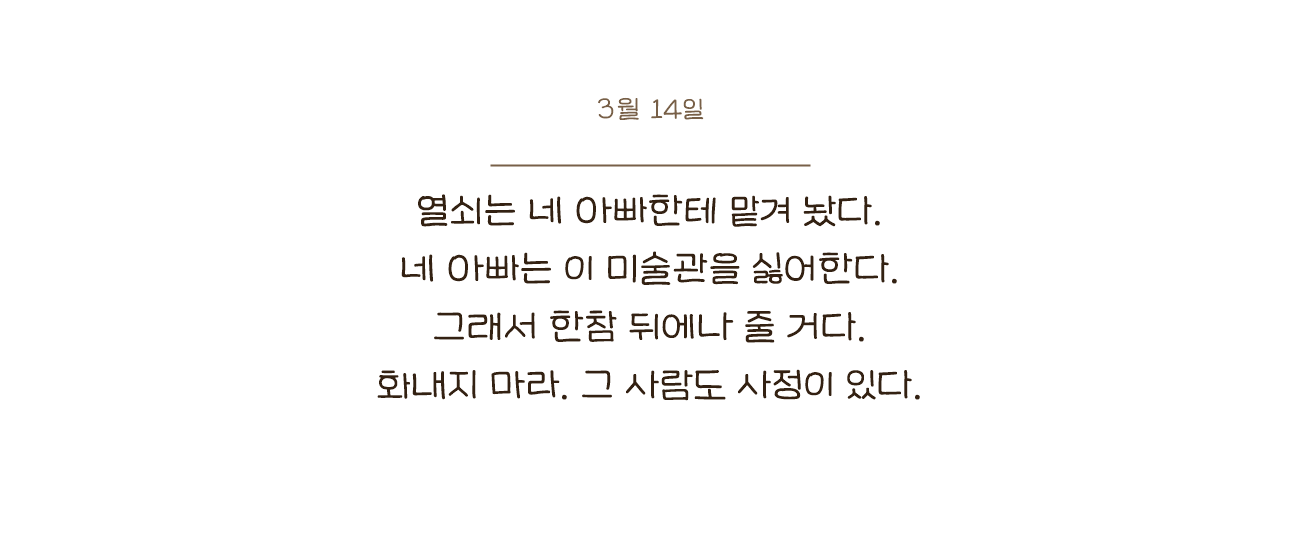
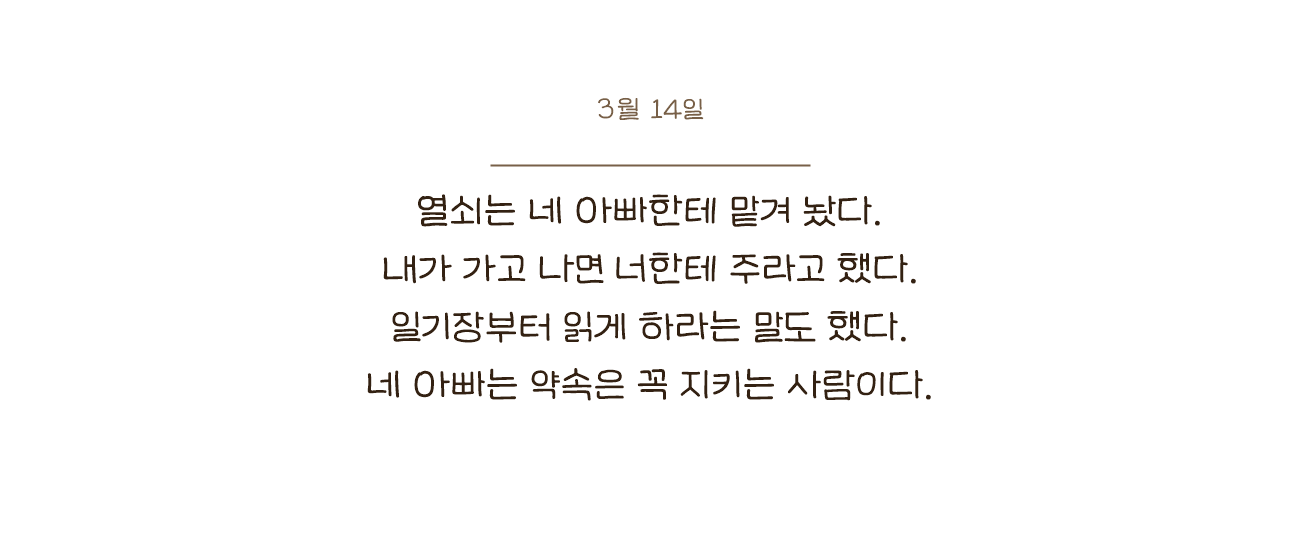
아빠가 미술관을 싫어한다는 설정 삭제: 열쇠는 할아버지의 부탁으로 전달

Changed region(s): [[0.2769, 0.6375, 0.7077, 0.7286], [0.2769, 0.5464, 0.7077, 0.6375], [0.2769, 0.4554, 0.7077, 0.5161]]

diff --git a/docs/claude/SESSION_HANDOFF.md b/docs/claude/SESSION_HANDOFF.md
@@ -780,3 +780,4 @@ Phase 1에서 한 일 (2026-10-29):
 - 확인(미술관 실행): 기억을 지우고 들어가니 편지가 먼저 열리고 그동안 표시가 안 보임 → 닫으면 화살표 9개 + 고리 + 위쪽 안내 글이 나타나 책상 쪽(서쪽)으로 이어짐(화면 캡처) → 고리 자리에 서면 "[E] 일기장 읽기"가 뜸 → 일기장을 열면 표시 전부 사라짐. 테스트 뒤 기억을 다시 지워 사용자의 다음 첫 입장에 편지와 안내가 뜬다. 못 본 것: 화살표가 가구에 겹쳐 보이는 경우(길이 직선이라 가구를 가로지를 수 있음), 다시하기 뒤 재표시.
 - (2026-11-11 사용자 요청 "스토리를 더 채우고 부모님 편지에는 일기장으로 가 보라고만 써 줘") ① **부모님의 편지를 2쪽으로 줄였다**(`0_OpeningPages.txt`): "사랑하는 우리 아이에게, 할아버지가 지키시던 미술관의 열쇠를 건넨다." → "먼저 책상 위의 일기장으로 가 보렴. 바닥의 표시를 따라가면 된단다. 엄마, 아빠가." ② **할아버지 일기장을 4쪽 → 10쪽으로 채웠다**(`Diary_01~10.png`, 이서윤체, 쪽마다 시점 글자 + 본문 3줄): 첫 장(손님은 셋뿐) → 그해 봄(색이 가장 환하던 때) → 여러 해 뒤(색이 빠져나감, 미술관이 색을 숨기려는 걸까) → 어느 밤(거울 너머 숲) → 첫 번째 곳(숲: 빨강·주황·노랑) → 두 번째 곳(성 마을: 초록·파랑·보라) → 마지막 곳(사막: 분홍·하양·검정) → 그림자(색을 노리는 그림자, 잡으면 삼킨 색이 터져 나옴) → 열쇠(아버지에게 맡겨 둠, 네가 스스로 문을 열기를 바랐다) → 마지막 장(액자를 다시 채워 다오). `DiaryPopup`의 Pages를 10장으로 연결(씬 저장), `Phase76`은 있는 만큼 읽는다. ③ **결말을 9쪽으로**: 거울 너머가 조용해지고 그림자들이 삼킨 색이 돌아오는 쪽을 추가, 열쇠 쪽을 "부모님이 열쇠와 편지를 건네주셨다. 편지에는 일기장으로 가 보라는 말뿐이었다"로 맞춤. 확인(미술관 실행): 편지 1·2쪽, 일기장 "8 / 10"·결말 "5 / 9" 화면 확인. 테스트 뒤 '봤다' 기억을 지워 다음 첫 입장에 편지와 길 안내가 뜬다. 못 본 것: 일기장 9·10쪽 외 나머지 쪽의 줄 길이(한 줄이 길면 가로가 넘칠 수 있어 3·6쪽 등은 눈으로 안 봄).
 - (2026-11-11 사용자 지적 "스토리가 좀 별로야" → 이유: 너무 평범하고 뻔하고, 글이 AI 같다 → 방향: "AI티 더 안 나게") **이야기 글을 처음부터 다시 썼다.** AI 티가 났던 이유(쪽마다 같은 정돈된 3줄, 추상적인 감정 요약, 구체적인 물건·웃음 없음)를 없애려고 **구체적인 사물 + 투덜대는 말투 + 약간의 웃음 + 줄 수가 들쭉날쭉한 일기** 로 바꿨다. 뼈대(거울, 숨겨진 색, 열쇠, 일기장, 액자 9개, 숲·성 마을·사막, 그림자)는 그대로. ① 일기장 10쪽(`Diary_01~10.png`)을 **날짜가 붙은 진짜 일기**로: 4월 3일 손님 세 명(우유 아저씨, 맨날 오는 할머니, 화장실 빌리러 온 옆집 꼬마) → 비 오는 날 9번 액자 앞에 서 있는 할머니 → 9번 액자가 허옇다 → 난로 값 아끼려고 석 달 문을 닫았더니 액자가 전부 허옇다("삐진 모양") → 거울이 물처럼 출렁, 물감 냄새, 무릎 때문에 안 들어감 → 가을 숲 색을 3번 액자에 바르니 그 액자만 돌아옴 → 성 마을·사막 → 거울 안 시커먼 것들, 빗자루로 쫓음("너는 더 좋은 걸 들고 가라") → 열쇠는 아빠에게(아빠는 미술관을 싫어함) → 액자는 아홉 개, "나도 못 그린다", 손님은 셋이면 된다. 그림 제작은 줄 수 자유로운 스크립트(스크래치패드 `make_diary2.ps1`, 이서윤체, 날짜 글+가는 줄+본문 2~5줄)로 했고 가로 최대 801/1300px라 안 넘친다. ② 부모님 편지는 짧은 반말 2쪽("열쇠 보낸다. 할아버지가 하시던 미술관 열쇠다." / "책상 위 일기장부터 읽어 봐. 바닥에 표시가 있을 거다. 엄마 아빠가"). ③ 결말 8쪽: 아홉 번째 그림이 삐뚤다(수평자) → 거울이 출렁하고 물감 냄새 → 거울 너머는 평범한 풍경 → "문을 닫아 둬서 삐진 거였다" → 엄마 아빠는 끝까지 이 얘기를 안 하려 했다 → "나도 못 그린다. 맞다. 아홉 장 다 못 그렸다" → 빈 액자는 없다, 일단 문부터 열어 두자 → 그림을 쭉 펼쳐 봤다. 확인(미술관 실행): 일기장 1·4·9쪽, 결말 5쪽, 내가 그린 그림 창 화면 확인(화면 캡처가 한 쪽씩 밀려 나와 쪽 번호는 화면의 "n / 10"으로 맞춰 봄). 못 본 것: 일기장 2·3·5~8·10쪽의 실제 화면(줄 폭은 수치로만 확인), 편지 1·2쪽 화면. 글은 여전히 Claude의 초안이라 사용자가 고칠 말투/사건을 말하면 더 바꾼다.
+- (2026-11-12 사용자 결정: "아빠가 미술관을 싫어하게 하지 마") 아빠가 미술관을 싫어한다는 설정을 뺐다. 열쇠를 나중에 주고 편지가 짧은 이유는 **할아버지의 부탁**: 일기 9쪽(`Diary_09.png`) "열쇠는 네 아빠한테 맡겨 놨다 / 내가 가고 나면 너한테 주라고 했다 / 일기장부터 읽게 하라는 말도 했다 / 네 아빠는 약속은 꼭 지키는 사람이다", 결말 5쪽 "엄마 아빠한테 열쇠랑 편지 한 장을 받았다 / 일기장부터 읽으라고. 할아버지가 그렇게 부탁했단다". 다른 글에서 "싫어함/사정" 표현은 더 없다(검색 확인). 사용자가 부모님 갈등 설정을 원하지 않으므로 스토리 기획안(`STORY_PLAN.md`)에도 이를 따른다. 확인: Diary_09.png 이미지 직접 확인(가로 602px), 결말 파일 수정. 못 본 것: 게임 화면에서의 9쪽·결말 5쪽.
